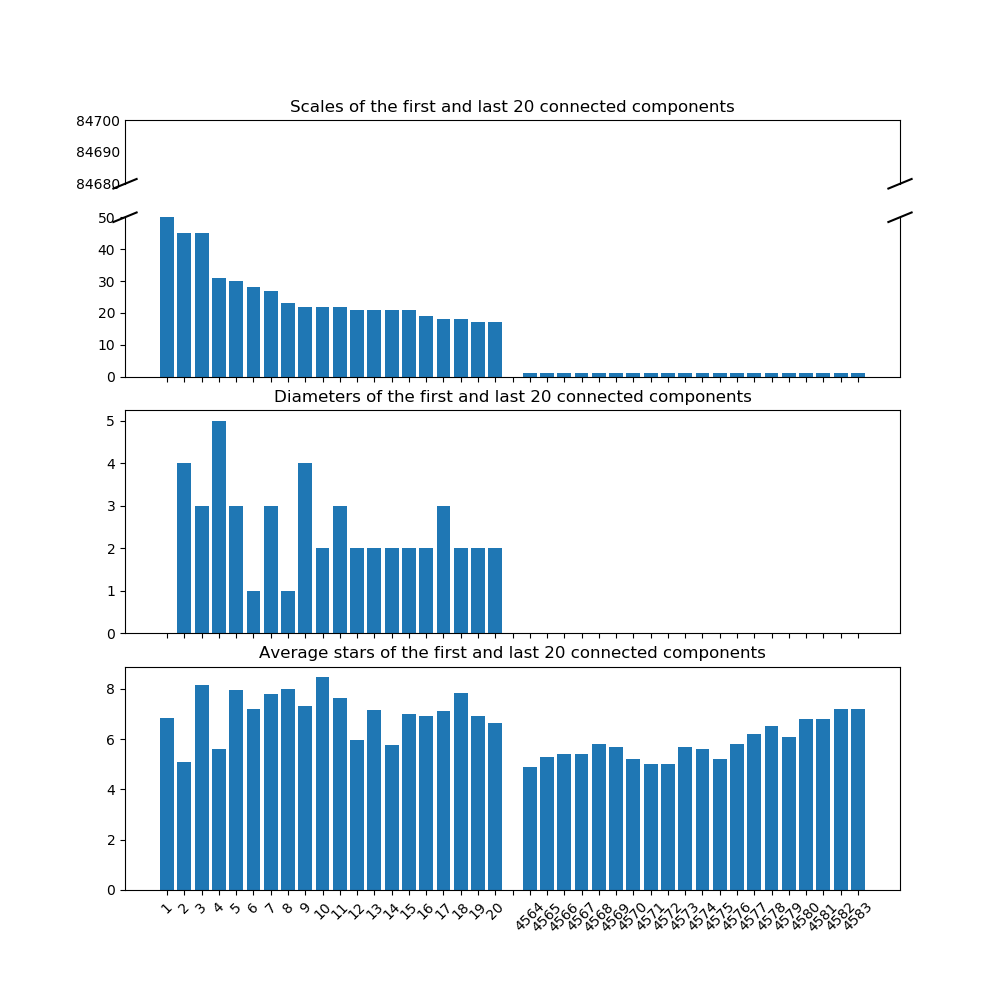
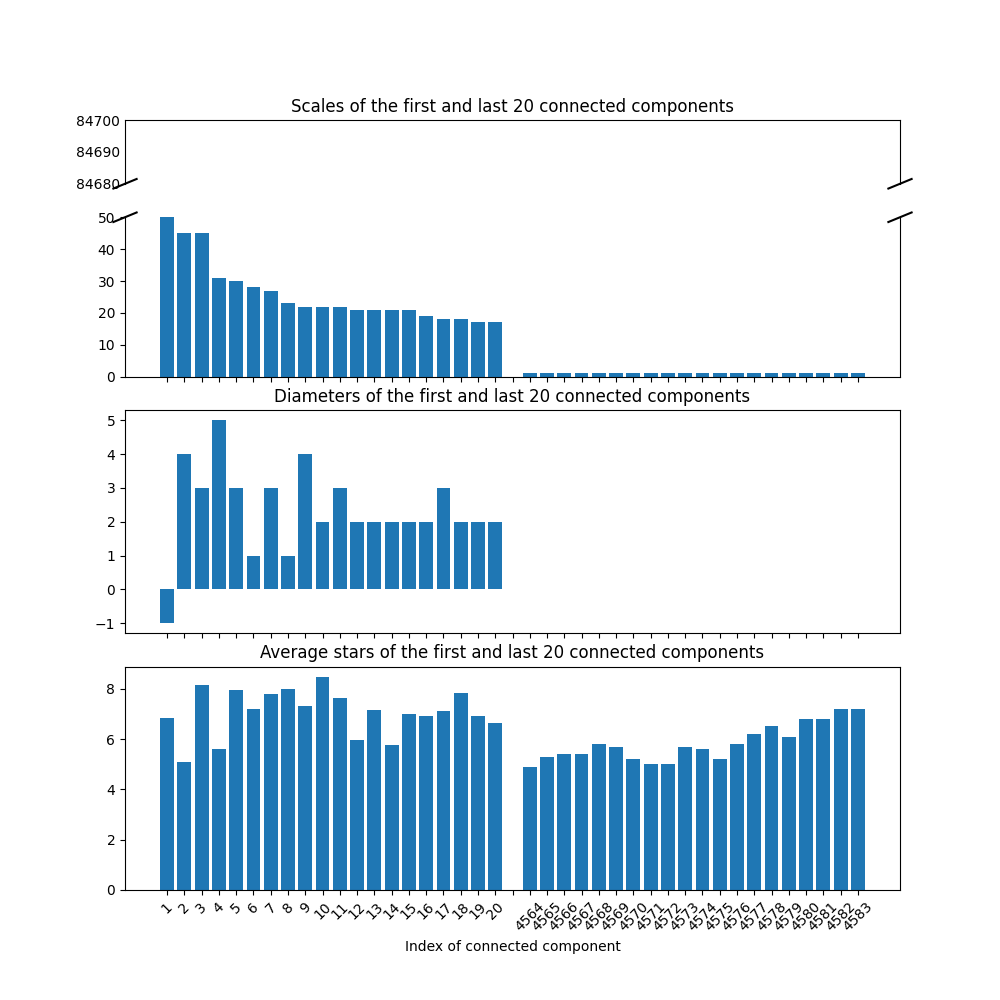
finish

diff --git a/fin.py b/fin.py
@@ -1,7 +1,6 @@
 import json
 import matplotlib.pyplot as plt
 import numpy as np
-from brokenaxes import brokenaxes
 
 class Film:
     """
@@ -11,7 +10,7 @@ class Film:
     def __init__(self, item):
         self.id = item['_id']['$oid']
         self.title = item['title']
-        self.year = item['year']
+        self.year = int(item['year'])
         self.type = item['type'].split(',')
         self.star = float(item['star'])
 
@@ -70,6 +69,7 @@ class Graph:
         for item in data:
             self.addFromItem(item)
         self.set_cnct_comp()
+        self.bfs_reset()
 
     def addVertex(self, actor):
         """ 向图中添加姓名为actor的演员, 并返回演员节点 """
@@ -134,7 +134,7 @@ class Graph:
         return distance
 
     def set_cnct_comp(self):
-        """ 为连通分支这一成员变量正确赋值 """
+        """ 为连通分支这一成员变量正确赋值, 并按连通分支规模排序 """
         for key in self.vertlist:  # 遍历图中的节点
             vert = self.vertlist[key]
             if vert.colour == 0:  # 如果为搜索过, 以该节点为起点bfs, 并将所有搜索的节点存入d, 将d存入self.cnct_comp
@@ -171,7 +171,7 @@ class Graph:
                 R = r
         return R
 
-    def films_in_cont(self, index):
+    def films_in_cnct(self, index):
         """ 以字典的形式(Film.id: Film)返回第index个连通分支内的所有电影 """
         d = self.cnct_comp[index]
         films = {}
@@ -236,23 +236,23 @@ if __name__ == "__main__":
     Problem 1,2
     """
     output.write('### 连通分支\n')
-    L = G.cnct_comp
-    numBranch = len(L)
-    output.write('共%d个连通分支.\n' % numBranch)
-    NumList = []
-    diameterList = []
-    StarList = []
+    L = G.cnct_comp # 按规模排好序的所有连通分支的列表
+    numComp = len(L) # 连通分支个数
+    output.write('共%d个连通分支.\n' % numComp)
+    scale_list = [] # 储存连通分支规模的列表
+    diameter_list = [] # 储存连通分支直径的列表
+    star_list = [] # 储存连通分支平均星级的列表
     output.write('|序号|演员个数|电影类别|直径|\n')
     output.write('|---|-----|----|---|\n')
     for i in range(20):
-        Num = len(L[i])
-        NumList.append(Num)
-        diameter = 0
+        scale = len(L[i])
+        scale_list.append(scale)
+        diameter = -1
         if i >= 1:
             diameter = G.diameter(i)
-        diameterList.append(diameter)
-        films = G.films_in_cont(i)
-        StarList.append(np.mean([f.star for f in films.values()]))
+        diameter_list.append(diameter)
+        films = G.films_in_cnct(i)
+        star_list.append(np.mean([f.star for f in films.values()]))
         type = {}
         for f in films.values():
             for t in f.type:
@@ -265,19 +265,20 @@ if __name__ == "__main__":
             Type = [types[i][0] for i in range(3)]
         else:
             Type = [t[0] for t in types]
-        output.write('|'+str(i+1)+'|'+str(Num)+'|' +
+        output.write('|'+str(i+1)+'|'+str(scale)+'|' +
                      list2str(Type)+'|'+str(diameter)+'|\n')
+    # 画表格中的省略号栏, 并添加一个0以在作图时分隔前/后20
     output.write('|...|...|...|...|\n')
-    NumList.append(0)
-    diameterList.append(0)
-    StarList.append(0)
-    for i in range(numBranch-20, numBranch):
-        Num = len(L[i])
-        NumList.append(Num)
+    scale_list.append(0)
+    diameter_list.append(0)
+    star_list.append(0)
+    for i in range(numComp-20, numComp):
+        scale = len(L[i])
+        scale_list.append(scale)
         diameter = G.diameter(i)
-        diameterList.append(diameter)
-        films = G.films_in_cont(i)
-        StarList.append(np.mean([f.star for f in films.values()]))
+        diameter_list.append(diameter)
+        films = G.films_in_cnct(i)
+        star_list.append(np.mean([f.star for f in films.values()]))
         type = {}
         for f in films.values():
             for t in f.type:
@@ -290,7 +291,7 @@ if __name__ == "__main__":
             Type = [types[i][0] for i in range(3)]
         else:
             Type = [t[0] for t in types]
-        output.write('|'+str(i+1)+'|'+str(Num)+'|' +
+        output.write('|'+str(i+1)+'|'+str(scale)+'|' +
                      list2str(Type)+'|'+str(diameter)+'|\n')
     """
     Problem 3
@@ -299,11 +300,11 @@ if __name__ == "__main__":
 
     fig, ax = plt.subplots(4, gridspec_kw={'height_ratios':[2,5,7,7]}, sharex=True, figsize=(10, 10))
     plt.xticks(rotation=45)
-    index = list(range(1,21))+['']+list(range(numBranch-19, numBranch+1))
+    index = list(range(1,21))+['']+list(range(numComp-19, numComp+1))
     x = np.arange(len(index))
-    N = np.array(NumList)
-    R = np.array(diameterList)
-    S = np.array(StarList)
+    N = np.array(scale_list)
+    R = np.array(diameter_list)
+    S = np.array(star_list)
     ax[0].bar(x, N)
     ax[1].bar(x, N)
     ax[0].set_ylim(84680,84700)
@@ -323,6 +324,7 @@ if __name__ == "__main__":
     ax[0].set_title('Scales of the first and last 20 connected components')
     ax[2].set_title('Diameters of the first and last 20 connected components')
     ax[3].set_title('Average stars of the first and last 20 connected components')
+    ax[3].set_xlabel('Index of connected component')
     fig.savefig('2.png')
     output.write('@import "2.png"\n')
 
@@ -356,49 +358,39 @@ if __name__ == "__main__":
     output.write('周星驰和他的共同出演者共演出了%d部电影, 所出演电影的平均星级为%.2f, 电影所属类别前三名为' % (
         number, star)+list2str([types[i][0] for i in range(3)])+'.\n')
     """ ========================================================= """
-    # print('下面列出周星驰和共同出演者所演电影的统计信息')
-    # table = "{0:10}\t{1:^10}\t{2:10}\t{3:20}"
-    # coactors.append(zhou)
-    # print(table.format('演员姓名', '电影数目', '平均星级', '类型'))
-    # for actor in coactors:
-    #     name = actor.actor
-    #     films = actor.films
-    #     num_of_film = len(films)
-    #     star_of_film = np.mean([f.star for f in films])
-    #     type = {}
-    #     for f in films:
-    #         for t in f.type:
-    #             if t in type:
-    #                 type[t] += 1
-    #             else:
-    #                 type[t] = 1
-    #     types = sorted(type.items(), key=lambda dict: dict[1], reverse=True)
-    #     if len(types) >= 3:
-    #         Type = [types[i][0] for i in range(3)]
-    #     else:
-    #         Type = [t[0] for t in types]
-    #     print(table.format(name, num_of_film, '%.2f' % star_of_film, str(Type)))
-    # print('### 探究出演电影数与出演电影平均星级的关系')
-    # D={}
-    # for actor in G.vertlist:
-    #     films=G.vertlist[actor].films
-    #     # coactors=G.vertlist[actor].getConnections()
-    #     # n=len(coactors)
-    #     n=0
-    #     if actor!='':
-    #         n=len(films)
-    #     if n>250:
-    #         print(actor)
-    #     star=np.mean([f.star for f in films.values()])
-    #     if n in D:
-    #         D[n].append(star)
-    #     else:
-    #         D[n]=[star]
-    # for n in D:
-    #     D[n]=np.mean(D[n])
-    # D=sorted(D.items(), key=lambda dict: dict[0])
-    # x=[item[0] for item in D]
-    # y=[item[1] for item in D]
-    # plt.plot(x,y,'.')
-    # plt.show()
+
+    print('### 探究合作人数与平均星级的关系')
+    S={}
+    Y={}
+    for actor in G.vertlist:
+        films=G.vertlist[actor].films
+        coactors=G.vertlist[actor].getConnections()
+        n=len(coactors)
+        star=np.mean([f.star for f in films.values()])
+        year=np.mean([f.year for f in films.values()])
+        if n in S:
+            S[n].append(star)
+        else:
+            S[n]=[star]
+    for n in S:
+        S[n]=np.mean(S[n])
+    SS=sorted(S.items(), key=lambda dict: dict[0])
+    x=[item[0] for item in SS]
+    y=[item[1] for item in SS]
+    # 每50个分片统计
+    X=[25+n*50 for n in range(18)]
+    z=[]
+    for xx in X:
+        st=[]
+        for n in range(xx-25,xx+25):
+            if n in S:
+                st.append(S[n])
+        z.append(np.mean(st))
+    fig, ax=plt.subplots(2,sharex=True)
+    ax[0].plot(x,y,'.')
+    ax[1].plot(X,z)
+    ax[1].set_xlabel('Number of coactors')
+    ax[0].set_ylabel('Average Stars')
+    ax[1].set_ylabel('Average Stars')
+    fig.savefig('more.png')
     

diff --git a/fin.md b/fin.md
@@ -55,9 +55,19 @@ def addFromItem(self, item):
 
 @import "output.md"
 
-## 其他发现
+## 数据分析和其他发现
 
-### 一个小坑
-``json``文件里面存在一个重大的小错误, 就是有的电影演员列表里出现了连续的逗号',', 这会导致切片出一个空演员来. 另外有一些电影没有演员, 如果不排除空演员, 那么所有没有演员的电影(1920个)会和出现连续逗号错误的电影都成为某个连通分支里的边, 导致连通分支的数量以及部分连通分支的规模计算错误. 起初我没有注意到这一点, 算出来的连通分支数目是4577, 最大连通分支个数为84687. 根据我在群里的观察, 这个错不止我一个人犯过.
+### 数据分析
 
-### 
+* ``json``文件里面存在一个小错误, 就是有的电影演员列表里出现了连续的逗号',,', 这会导致切片出一个空演员来. 另外有一些电影没有演员, 如果不排除空演员, 那么所有没有演员的电影(1920个)会和出现连续逗号错误的电影都成为某个连通分支里的边, 导致连通分支的数量以及部分连通分支的规模计算错误. 起初我没有注意到这一点, 算出来的连通分支数目是4577.
+* 电影平均星级和连通分支规模没有明显的相关性.
+* 在2-20名里, 直径和规模无明显相关. 说明规模变化不大时, 直径是一个相对独立的要素.
+* 周星驰出演的电影质量高于他的共同出演者的平均. 名演员确实不一样.
+
+### 其他发现
+
+我们最后研究一下演员的共同出演人数与给演员所演电影平均星级的关系. 最原始的图如下, 为了更容易看出关系, 我们以50为一个区间进行统计. 我们发现合作人数在500以下的基本平稳, 后面的波动和下降可以认为是涨落所致. 由此看出, 出演电影的平均星级(注意, 这里有两次平均, 一次是对单个演员所有电影的平均, 一次是对同一共同出演人数的演员的平均)和共同出演人数并无明显关联, 大家并不会因为一个人菜而不和他玩.
+
+@import "more.png"
+
+这里并未使用所学的较复杂的图算法, 只采用了邻接表.

diff --git a/output.md b/output.md
@@ -2,7 +2,7 @@
 共4583个连通分支.
 |序号|演员个数|电影类别|直径|
 |---|-----|----|---|
-|1|84671|剧情, 喜剧, 爱情|0|
+|1|84671|剧情, 喜剧, 爱情|-1|
 |2|45|恐怖, 历史, 战争|4|
 |3|45|纪录片, 历史, 战争|3|
 |4|31|剧情, 犯罪, 同性|5|
